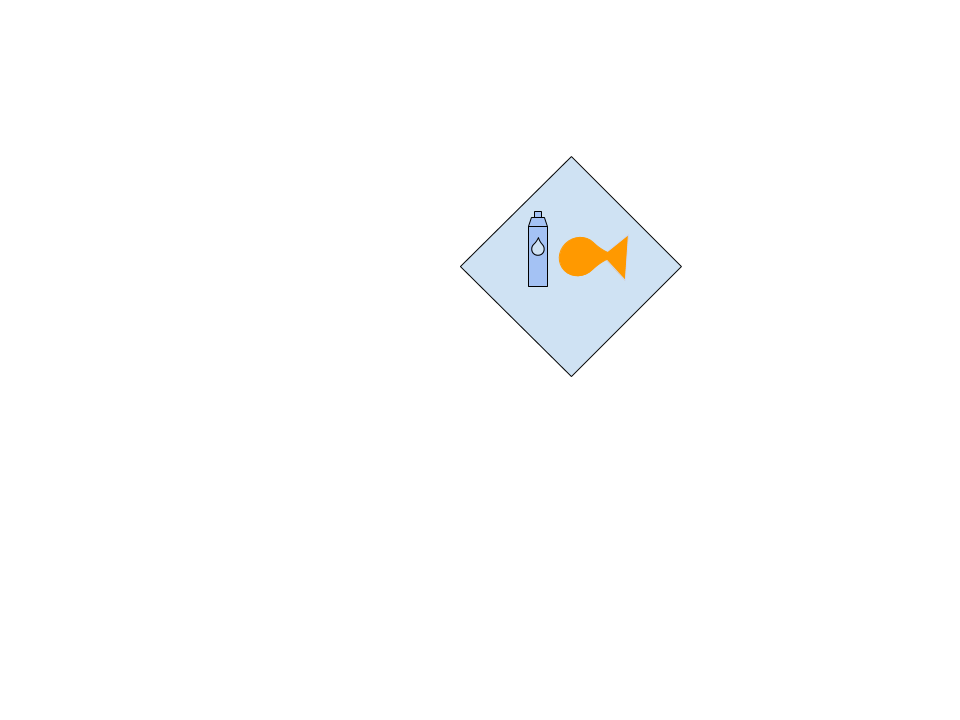
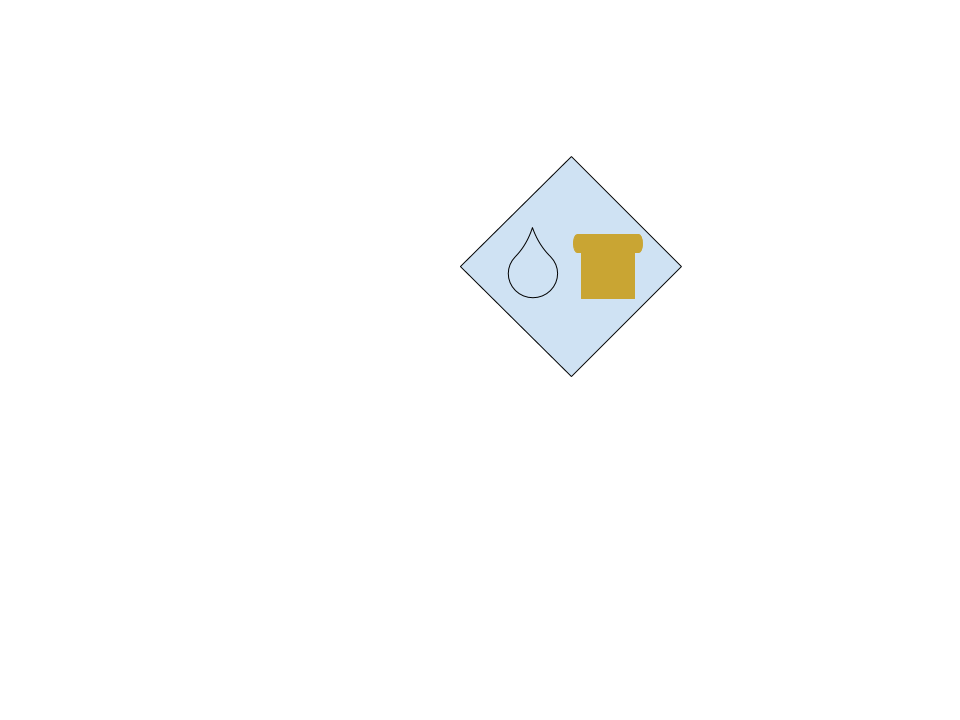
final changes
removed sensor, added hazard mapping, updated symbols

Changed region(s): [[0.5312, 0.3056, 0.6875, 0.4278]]

diff --git a/module.py b/module.py
@@ -25,7 +25,7 @@ BP.reset_all()
 #constant initialization
 dT = 0.05
 diam = 2.5 #of wheel, in inches
-spd_front = 30
+spd_front = 25
 rotTotal = 0
 conversion = 40 #40 cm per grid square
 
@@ -33,9 +33,10 @@ conversion = 40 #40 cm per grid square
 front_border = 15
 side_border = 10
 turn_alert = 25
-turn_front_offset = 8
+turn_front_offset = 2
 IR_cutoff = 120
-move_b4_turn = 12
+move_b4_turn = 18
+zMagModifier = 114
 '''
 Magnet is suposed to sense at 7 in away. Then should pull a uturn
 '''
@@ -48,18 +49,21 @@ front_kI = 1.0
 side_kP = 3.0
 side_kI = 3.0
 angle_kP = 1.0
-angle_kI = 1.5
+angle_kI = 1.8
 kRot = 4.8 #paper: 4.8   URSC table = 4.8
 
 #Mapping Init
-notes = 'This is a map of the maze.'
-origin = [0,0] #stored in grid points. [x,y]
-map_size = 8 #length of each side on the map
+mapNotes = 'This is a map of the maze.'
+hazardNotes = 'This maps hazard information.'
+origin = [0,4] #stored in grid points. [x,y]
+map_size = 17 #length of each side on the map
 prev_encoder = 0
 
 #initialize the map and the origin
 map = np.zeros((map_size,map_size),np.int8)
 currLoc = [[origin[0],origin[1]],[origin[0]*conversion,origin[1]*conversion]] #stored in [grid points, cm]
+hazards = []
+hazardMap = []
 
 #IMU Setup
 accelx=genWindow(mag.width,0)
@@ -73,6 +77,8 @@ us_front = BP.PORT_3
 BP.set_sensor_type(us_front, BP.SENSOR_TYPE.EV3_ULTRASONIC_CM)
 us_right = 6
 us_left = 5
+listIR = np.zeros(8)
+indexIR = 0
 
 #sensor warmup
 flag = 1
@@ -86,29 +92,26 @@ while flag:
         flag = 1
     time.sleep(dT)
 
-import sensorClass
-sensors = sensorClass.sensorClass()
-
 def rotateStatic(dir, angle=90):
     # r is right, l is left
     I = 0
-    gyro = sensors.dataGyro
+    gyro = readGyro()
     global rotTotal
     try:
         if(dir == 'r'):
             target = rotTotal + angle
             while gyro[0] < target:
-                gyro = sensors.dataGyro
+                gyro = readGyro()
                 I = rotateStaticSub(gyro, target, I)
         elif(dir=='l'):
             target = rotTotal - angle
             while gyro[0] > target:
-                gyro = sensors.dataGyro
+                gyro = readGyro()
                 I = rotateStaticSub(gyro, target, I)
         BP.set_motor_power(BP.PORT_B+BP.PORT_C,0)
         rotTotal = target
-        gyro = sensors.dataGyro
-        print('gyro abs: %3d' % gyro[0])
+        gyro = readGyro()
+        #print('gyro abs: %3d' % gyro[0])
         zeroEncoder()
     except KeyboardInterrupt:
         print('You pressed ctrl+c..')
@@ -120,58 +123,53 @@ def rotateStaticSub(gyro, target, I):
     I += rotate_kI * e * dT/2
     turnSpd = P + I
     print('gyro abs: %3d target: %3d e: %3d' % (gyro[0], target, e))
-    BP.set_motor_power(BP.PORT_B, turnSpd)
-    BP.set_motor_power(BP.PORT_C, -turnSpd)
+    BP.set_motor_dps(BP.PORT_B, turnSpd*11.5)
+    BP.set_motor_dps(BP.PORT_C, -turnSpd*11.5)
     time.sleep(dT)
     return I
 
 def navMaze():
     global prev_encoder
-    time.sleep(2*dT)
+    #time.sleep(3*dT)
     try:
         while True:
             flag = 1
-            dist_right = sensors.dataUltra[0]
-            dist_left = sensors.dataUltra[1]
-            dist_front = sensors.dataUltra[2]
-            IR_val = sensors.dataIR
+            dist_right, dist_left, dist_front = readUltra()
+            print("front: %2d right: %2d left: %2d" % (dist_front, dist_right, dist_left))
+            IR_val = readIR()
+            print('IR val: %d' % IR_val)
             magnet_data = readMagnet()
+            print(magnet_data)
             BP.set_motor_position(BP.PORT_A, 0)
             
-            if(dist_left > turn_alert and dist_front > turn_alert and dist_right > turn_alert):
-                BP.set_motor_power(BP.PORT_C+BP.PORT_B,0)
-                map[map_size - 1 - origin[1]][origin[0]] = 5
-                map[map_size - 1 - currLoc[0][1]][currLoc[0][0]] = 4
-                printMap()
-                while(BP.get_motor_encoder(BP.PORT_A) < 90):
-                    BP.set_motor_power(BP.PORT_A,20)
-                BP.set_motor_power(BP.PORT_A,0)
+            if(dist_left > 3*turn_alert and dist_front > 3*turn_alert and dist_right > 3*turn_alert):
+                moveDist(move_b4_turn)
+                endMaze()
                 break
             elif(dist_left > turn_alert):
                 moveDist(move_b4_turn)
                 rotateStatic('l')
-                dist_left = sensors.dataUltra[1]
+                dist_left = grovepi.ultrasonicRead(us_left)
                 zeroEncoder()
                 while dist_left > turn_alert:
-                    dist_left = sensors.dataUltra[1]
-                    BP.set_motor_power(BP.PORT_C+BP.PORT_B,spd_front)
+                    dist_left = grovepi.ultrasonicRead(us_left)
+                    BP.set_motor_dps(BP.PORT_C+BP.PORT_B,spd_front*11.5)
                     print('moving until sees lefthand wall')
                     printMap()
                     prev_encoder = mapUpdate(prev_encoder)
                 BP.set_motor_power(BP.PORT_C+BP.PORT_B,0)
                 flag = 0
-            #elif(dist_front > turn_alert-turn_front_offset):
-            elif(dist_front > turn_alert-turn_front_offset and IR_val < IR_cutoff and abs(magnet_data['z'] + 50) < 70):
+            elif(dist_front > turn_alert-turn_front_offset and IR_val < IR_cutoff and abs(magnet_data['z'] + zMagModifier) < 70):
                 flag = 0
                 pass
             elif(dist_right > turn_alert):
                 moveDist(move_b4_turn)
                 rotateStatic('r')
-                dist_right = sensors.dataUltra[0]
+                dist_right = grovepi.ultrasonicRead(us_right)
                 zeroEncoder()
                 while dist_right > turn_alert:
-                    dist_right = sensors.dataUltra[0]
-                    BP.set_motor_power(BP.PORT_C+BP.PORT_B,spd_front)
+                    dist_right = grovepi.ultrasonicRead(us_right)
+                    BP.set_motor_dps(BP.PORT_C+BP.PORT_B,spd_front*11.5)
                     print('moving until sees righthand wall')
                     printMap()
                     prev_encoder = mapUpdate(prev_encoder)
@@ -180,29 +178,34 @@ def navMaze():
             elif(flag):
                 if(IR_val < IR_cutoff):
                     angleInRad = (rotTotal % 360)*pi/180
-                    map[map_size - 1 - currLoc[0][1] - int(sin(angleInRad))][currLoc[0][0] + int(cos(angleInRad))] = 2
-                elif(abs(magnet_data['z'] + 50) < 70):
+                    hazards.append([map_size - 1 - currLoc[0][1] - int(sin(angleInRad)),currLoc[0][0] + int(cos(angleInRad)),2])
+                    hazardStr = 'Infrared Beacon,Intensity,{},{},{}'.format(IR_val,conversion*(hazards[-1][1]-origin[0]),conversion*(hazards[-1][0]-origin[1]))
+                    hazardMap.append([hazardStr])
+                elif(abs(magnet_data['z'] + zMagModifier) < 70):
                     angleInRad = (rotTotal % 360)*pi/180
-                    map[map_size - 1 - currLoc[0][1] - int(sin(angleInRad))][currLoc[0][0] + int(cos(angleInRad))] = 3
+                    hazards.append([map_size - 1 - currLoc[0][1] - int(sin(angleInRad)),currLoc[0][0] + int(cos(angleInRad)),3])
+                    hazardStr = 'Magnetic Beacon,Field Strength,{},{},{}'.format(magnet_data['z']+zMagModifier,conversion*(hazards[-1][1]-origin[0]),conversion*(hazards[-1][0]-origin[1]))
+                    hazardMap.append([hazardStr])
                 rotateStatic('l')
                 rotateStatic('l')
             
             printMap()
             prev_encoder = mapUpdate(prev_encoder)
-            gyro = sensors.dataGyro
+            gyro = readGyro()
             rightSideCorrection, leftSideCorrection = sideCorrect(dist_right, dist_left)
             angleCorrection = angleCorrect(gyro[0])
-            print('speed: %d R_correct: %d L_correct: %d' % (spd_front, rightSideCorrection - angleCorrection, leftSideCorrection + angleCorrection))
-            BP.set_motor_power(BP.PORT_C, spd_front + rightSideCorrection - angleCorrection)
-            BP.set_motor_power(BP.PORT_B, spd_front + leftSideCorrection + angleCorrection)
+            #print('speed: %d R_correct: %d L_correct: %d' % (spd_front, rightSideCorrection - angleCorrection, leftSideCorrection + angleCorrection))
+            BP.set_motor_dps(BP.PORT_C, (spd_front + rightSideCorrection - angleCorrection)*11.5)
+            BP.set_motor_dps(BP.PORT_B, (spd_front + leftSideCorrection + angleCorrection)*11.5)
 
             time.sleep(dT)
     except KeyboardInterrupt:
         print('You pressed ctrl+c..')
-        printMap()
+        endMaze()
         BP.reset_all()
     finally:
-        sensors.stop()
+        endMaze()
+        BP.reset_all()
 
 def sideCorrect(dist_right, dist_left):
     I_right = 0
@@ -238,6 +241,41 @@ def angleCorrect(gyroAbs):
         print('You pressed ctrl+c..')
         BP.reset_all()
 
+def readUltra(fake = 0):
+    if(not fake):
+        dist_right = grovepi.ultrasonicRead(us_right)
+        if(dist_right > 50):
+            dist_right = 50
+        dist_left = grovepi.ultrasonicRead(us_left)
+        if(dist_left > 50):
+            dist_left = 50
+        dist_front = BP.get_sensor(us_front)
+        if(dist_front > 50):
+            dist_front = 50
+    return dist_right, dist_left, dist_front
+
+def readGyro(fake = 0):
+    if(not fake):
+        gyro = BP.get_sensor(gyro_port)
+    return gyro
+
+def readIR(fake = 0):
+    global indexIR
+    if(not fake):
+        if(not fake):
+            IR = IR_Read()
+            if(IR[0] > 500):
+                IR[0] = 0
+            if(IR[1] > 500):
+                IR[1] = 0
+            IR_val = IR[0] + IR[1]
+            #print('one: %3d two: %d'%(IR[0],IR[1]))
+        listIR[indexIR] = IR_val
+        #print('IR val: %3d IR runAvg: %d' % (IR_val, self.dataIR))
+        indexIR += 1
+        indexIR = indexIR % len(listIR)
+        return sum(listIR)/len(listIR)
+
 def readMagnet(fake = 0):
     if(not fake):
         accel_data = mag.mpu9250.readAccel()
@@ -255,10 +293,10 @@ def moveDist(target_dist):
     try:
         while curr_dist < target_dist:
             e_front = target_dist - curr_dist
-            gyro = sensors.dataGyro
+            gyro = readGyro()
             angleCorrection = angleCorrect(gyro[0])
-            BP.set_motor_power(BP.PORT_C, spd_front - angleCorrection)
-            BP.set_motor_power(BP.PORT_B, spd_front + angleCorrection)
+            BP.set_motor_dps(BP.PORT_C, (spd_front - angleCorrection)*11.5)
+            BP.set_motor_dps(BP.PORT_B, (spd_front + angleCorrection)*11.5)
             motor_encoder = BP.get_motor_encoder(BP.PORT_B)
             curr_dist = motor_encoder * diam * 2.54 * pi / 360
             print('distance remaining: %d' % e_front)
@@ -275,6 +313,17 @@ def zeroEncoder():
     BP.offset_motor_encoder(BP.PORT_B, BP.get_motor_encoder(BP.PORT_B))
     BP.offset_motor_encoder(BP.PORT_C, BP.get_motor_encoder(BP.PORT_C))
     prev_encoder = 0
+
+def endMaze():
+    BP.set_motor_power(BP.PORT_C+BP.PORT_B,0)
+    map[map_size - 1 - origin[1]][origin[0]] = 5
+    map[map_size - 1 - currLoc[0][1]][currLoc[0][0]] = 4
+    for hazard in hazards:
+        map[hazard[0]][hazard[1]] = hazard[2]
+    printMap()
+    while(BP.get_motor_encoder(BP.PORT_A) < 90):
+        BP.set_motor_power(BP.PORT_A,20)
+    BP.set_motor_power(BP.PORT_A,0)
 
 def mapUpdate(prev_encoder):
     angleInRad = (rotTotal % 360)*pi/180
@@ -294,6 +343,12 @@ def mapUpdate(prev_encoder):
 
 def printMap():
     f1 = open('team33_map.csv', 'w+')
-    print('Team: 33\nMap: 0\nUnit Length: 40\nUnit: cm\nOrigin: (%d,%d)\nNotes: %s' %(origin[0],origin[1],notes),file=f1)
+    print('Team: 33\nMap: 0\nUnit Length: 40\nUnit: cm\nOrigin: (%d,%d)\nNotes: %s' %(origin[0],origin[1],mapNotes),file=f1)
     print('\n'.join([','.join(['{:}'.format(item) for item in row]) for row in map]),file=f1)
     f1.close()
+
+    f2 = open('team33_hazards.csv', 'w+')
+    print('Team: 33\nMap: 0\nNotes: %s\n' %(hazardNotes),file=f2)
+    print('Resource Type,Parameter of Interest,Parameter Value,Resource X Coordinate,Resource Y Coordinaten\n', file=f2)
+    print('\n'.join([','.join(['{:}'.format(item) for item in row]) for row in hazardMap]),file=f2)
+    f2.close()

diff --git a/sensorClass.py b/sensorClass.py
@@ -66,9 +66,9 @@ class sensorClass(object):
             if(IR[1] > 500):
                 IR[1] = 0
             IR_val = IR[0] + IR[1]
-            print('one: %3d two: %d'%(IR[0],IR[1]))
+            #print('one: %3d two: %d'%(IR[0],IR[1]))
         self.listIR[self.index] = IR_val
-        print('IR val: %3d IR runAvg: %d' % (IR_val, self.dataIR))
+        #print('IR val: %3d IR runAvg: %d' % (IR_val, self.dataIR))
         self.index += 1
         self.index = self.index % len(self.listIR)
         self.dataIR = sum(self.listIR)/len(self.listIR)
